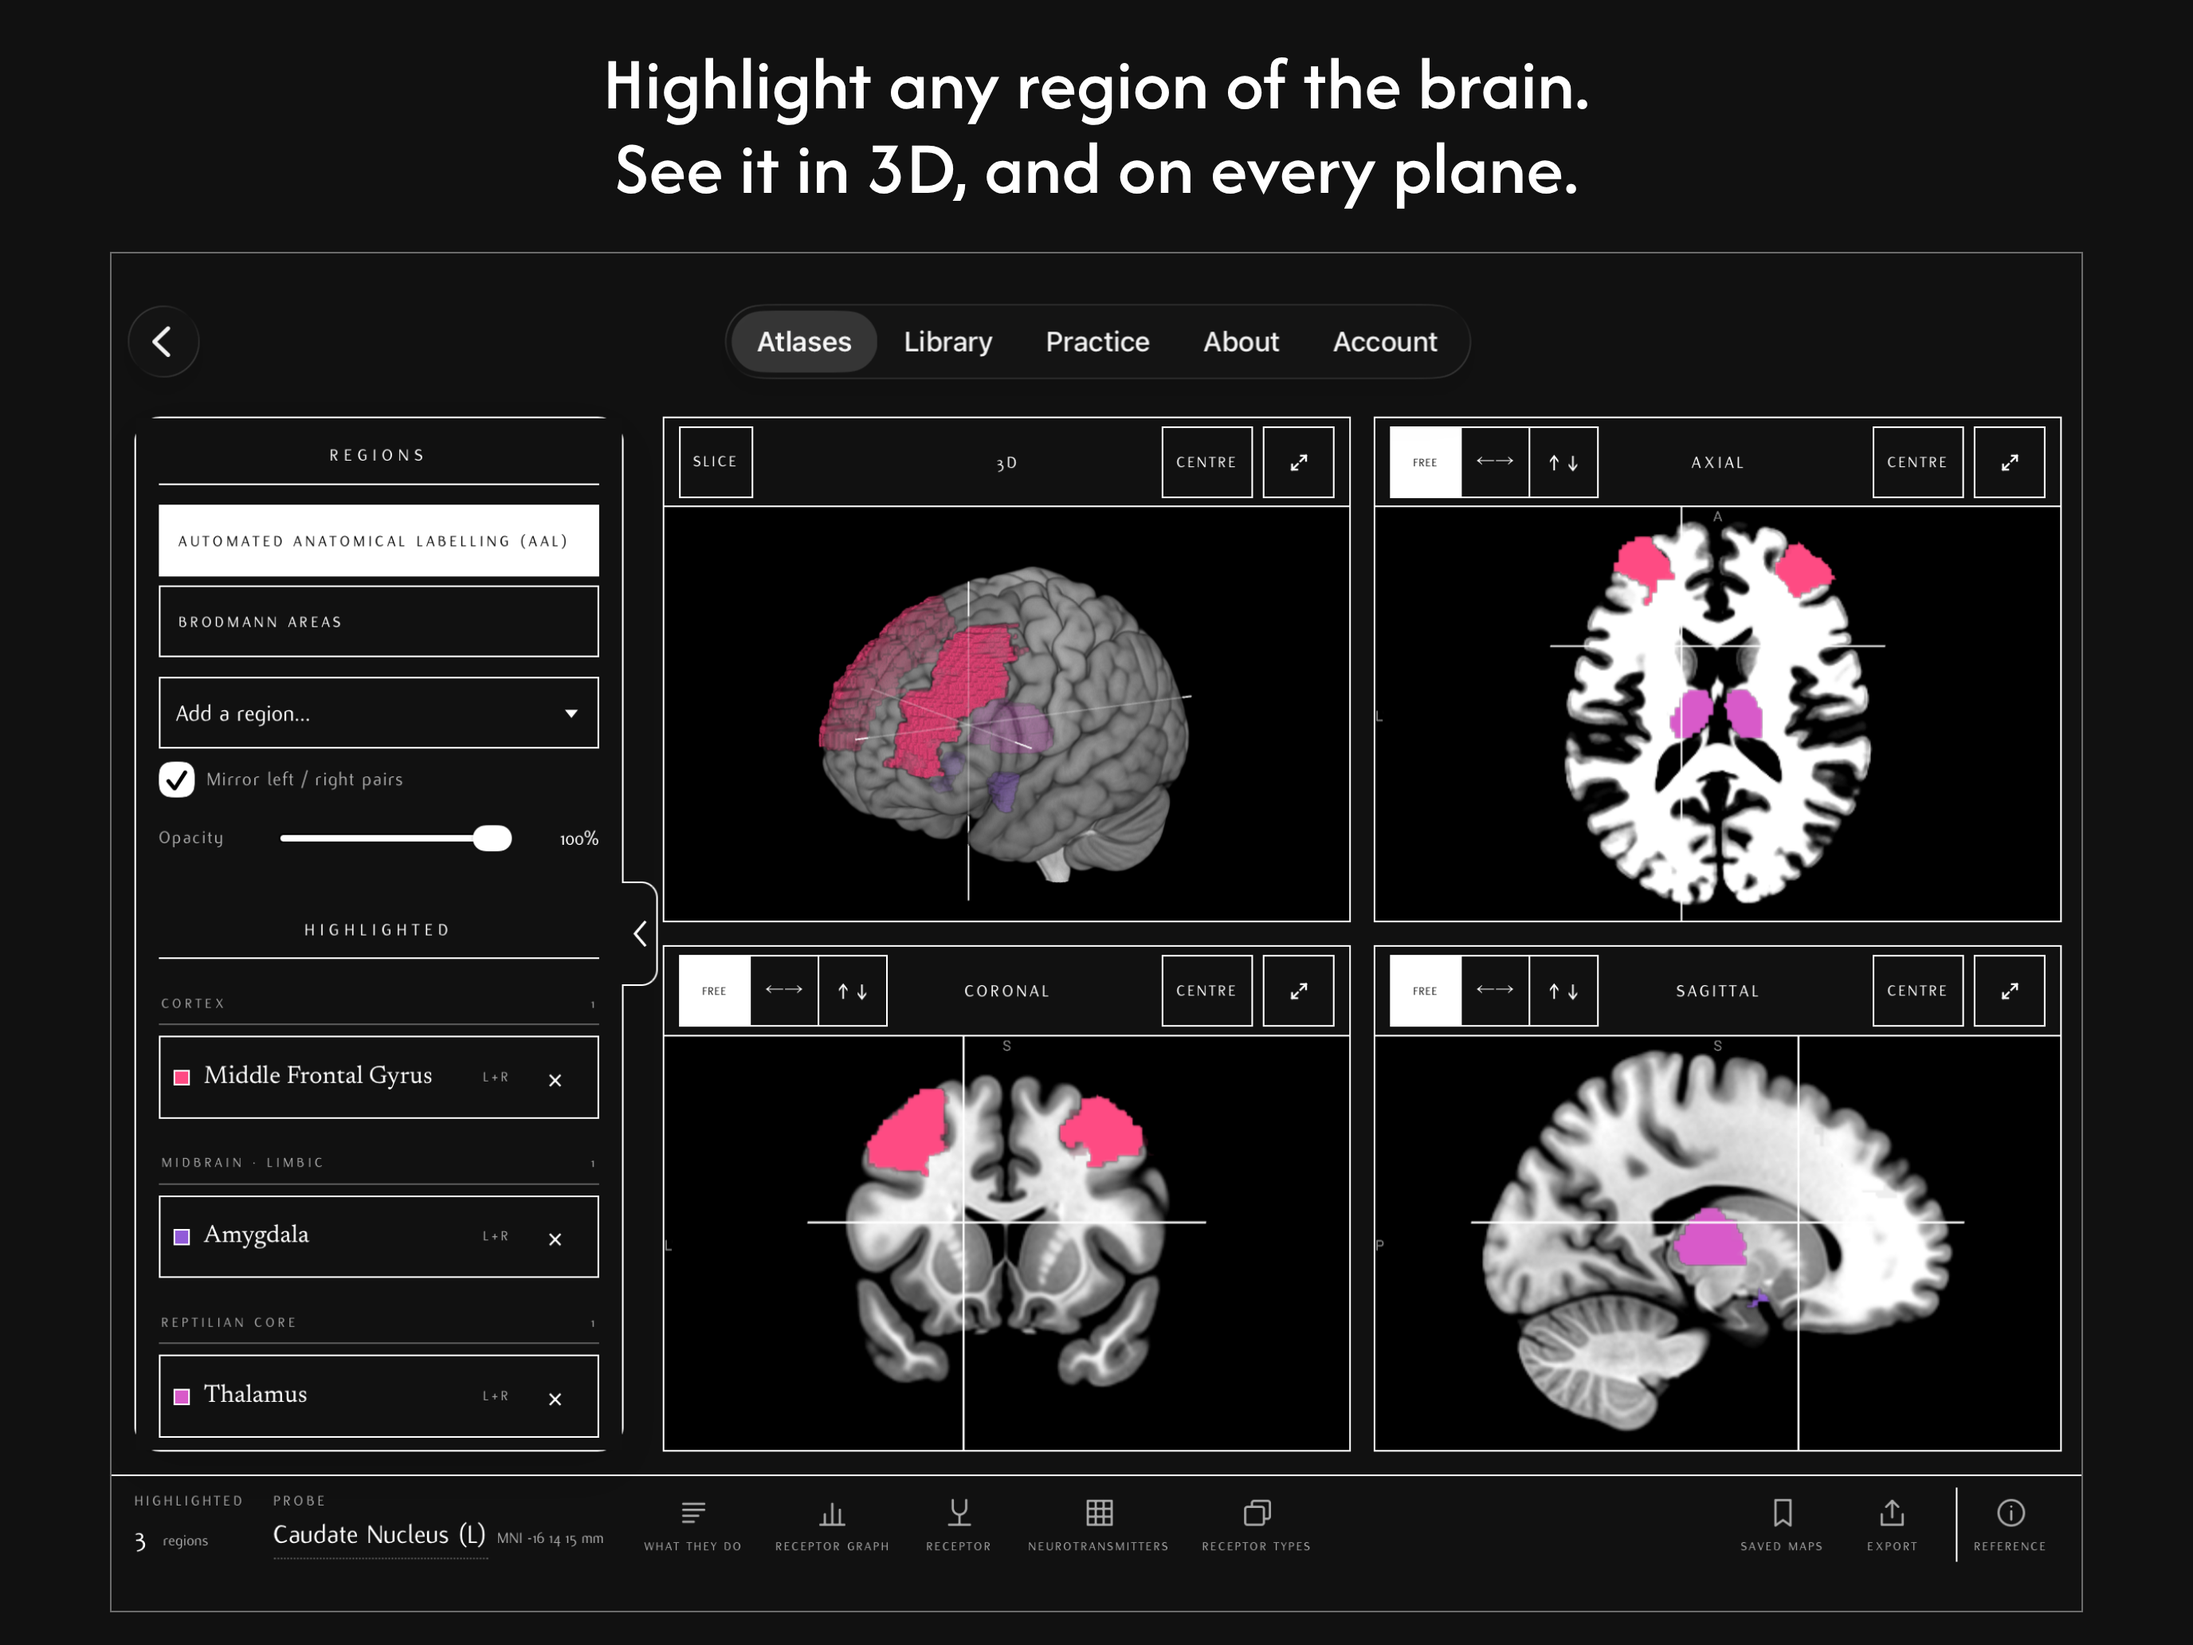
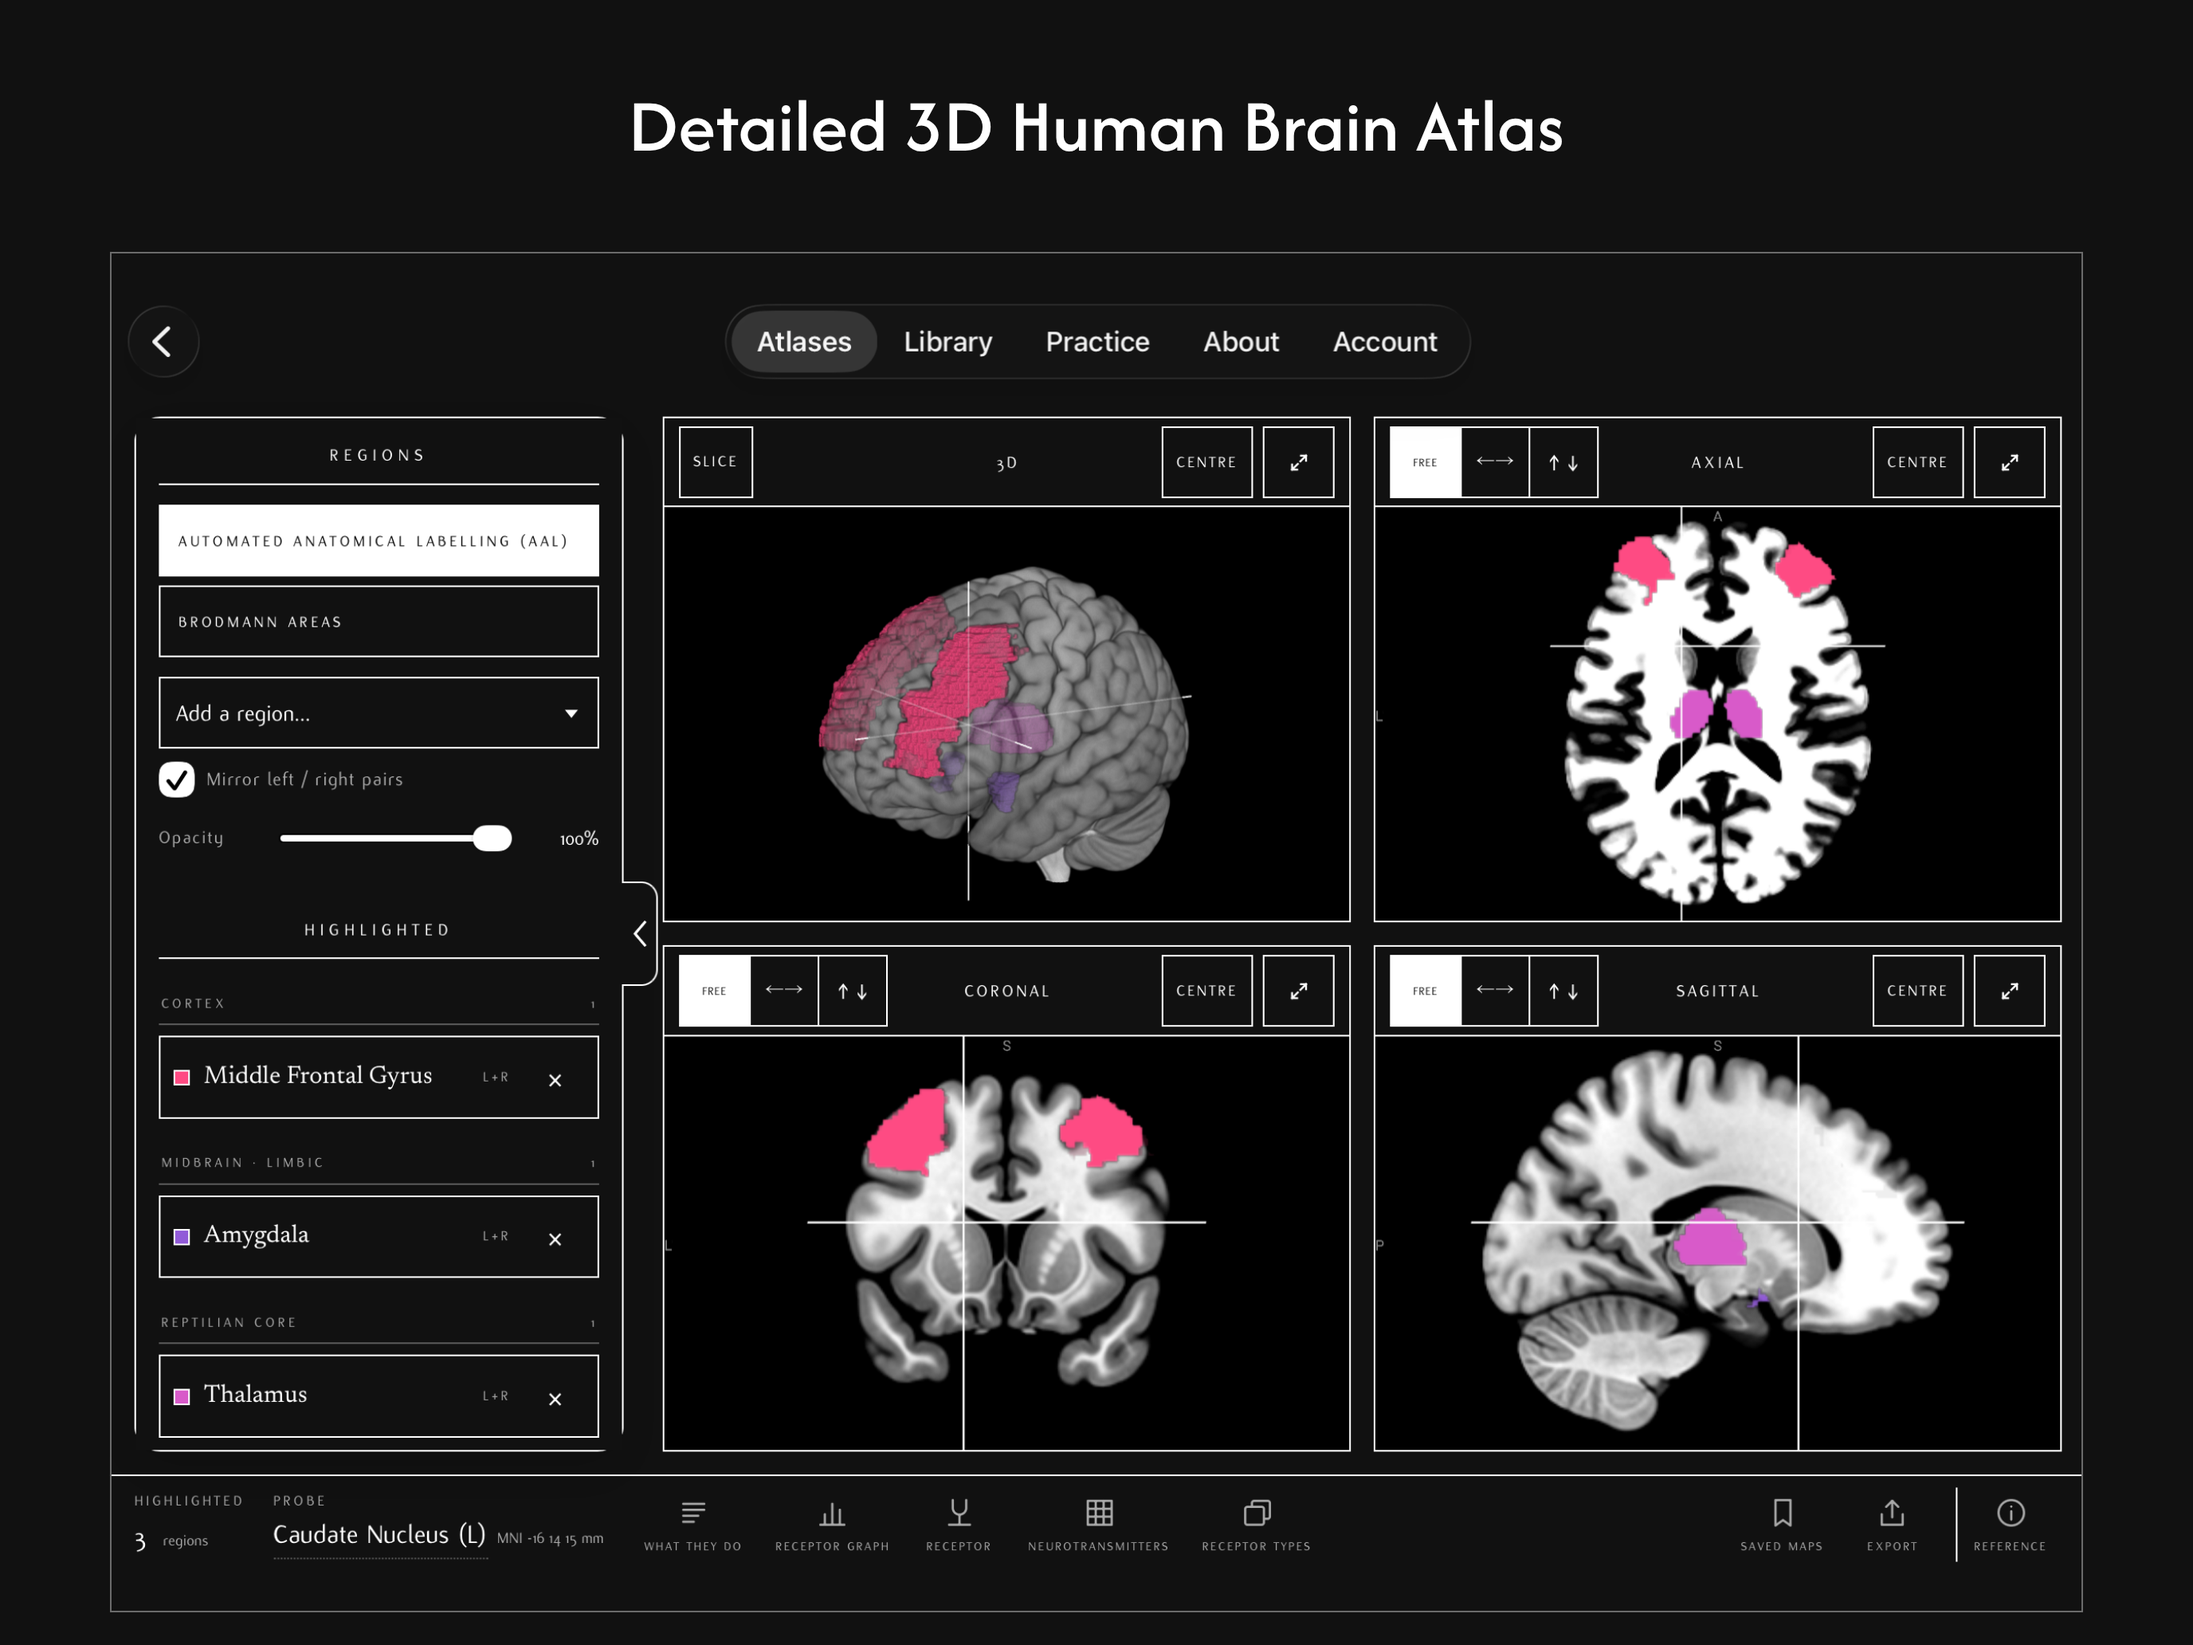
Set the owner's statement over the 3D Region Atlas store image
The 13-inch iPad image of the 3D Region Atlas carries the owner's line, Detailed 3D Human Brain Atlas, in place of the placeholder, and the ledger records the release that brings the store-image script to main.

Changed region(s): [[0.25, 0.031, 0.7188, 0.124]]

diff --git a/docs/RELEASES.md b/docs/RELEASES.md
@@ -11,8 +11,13 @@ text below. Both can also be run from a clone on a machine that can push.
 
 Versions before v8.6 were released without a ledger and are not recorded.
 
+## v11.95 — 23 October 2026 — A store image with the sell above it
+Commit · Set the owner's statement over the 3D Region Atlas store image
+
+The repository gains the way the App Store images are made from a capture of the app: a statement in the brand face above, the capture framed beneath at the store's size with the device's status bar painted over rather than cut away. The first, for the 13-inch iPad, shows the 3D Region Atlas with three regions highlighted under the words Detailed 3D Human Brain Atlas.
+
 ## v11.94 — 23 October 2026 — Tractography and the Network Atlas on the bar
-Commit · Make the Tractography page and the Network Atlas one screen each, with the bar of buttons the other atlases have
+Commit `6fd439d` · Make the Tractography page and the Network Atlas one screen each, with the bar of buttons the other atlases have
 
 Tractography and the Network Atlas now work as the other atlases do: one screen, nothing to scroll, with a bar of buttons along the foot. On Tractography the tractogram fills the screen, and Streamlines, View from, Revolve, Export and About each slide up out of the bar as a sheet. On the Network Atlas the brain state sits in a box at the corner, the four scans fill the rest, and the circular network graph itself is a sheet the bar's Network button raises, the reading, the key and the thread weight beside it, with Export and About on the bar as well.
 
